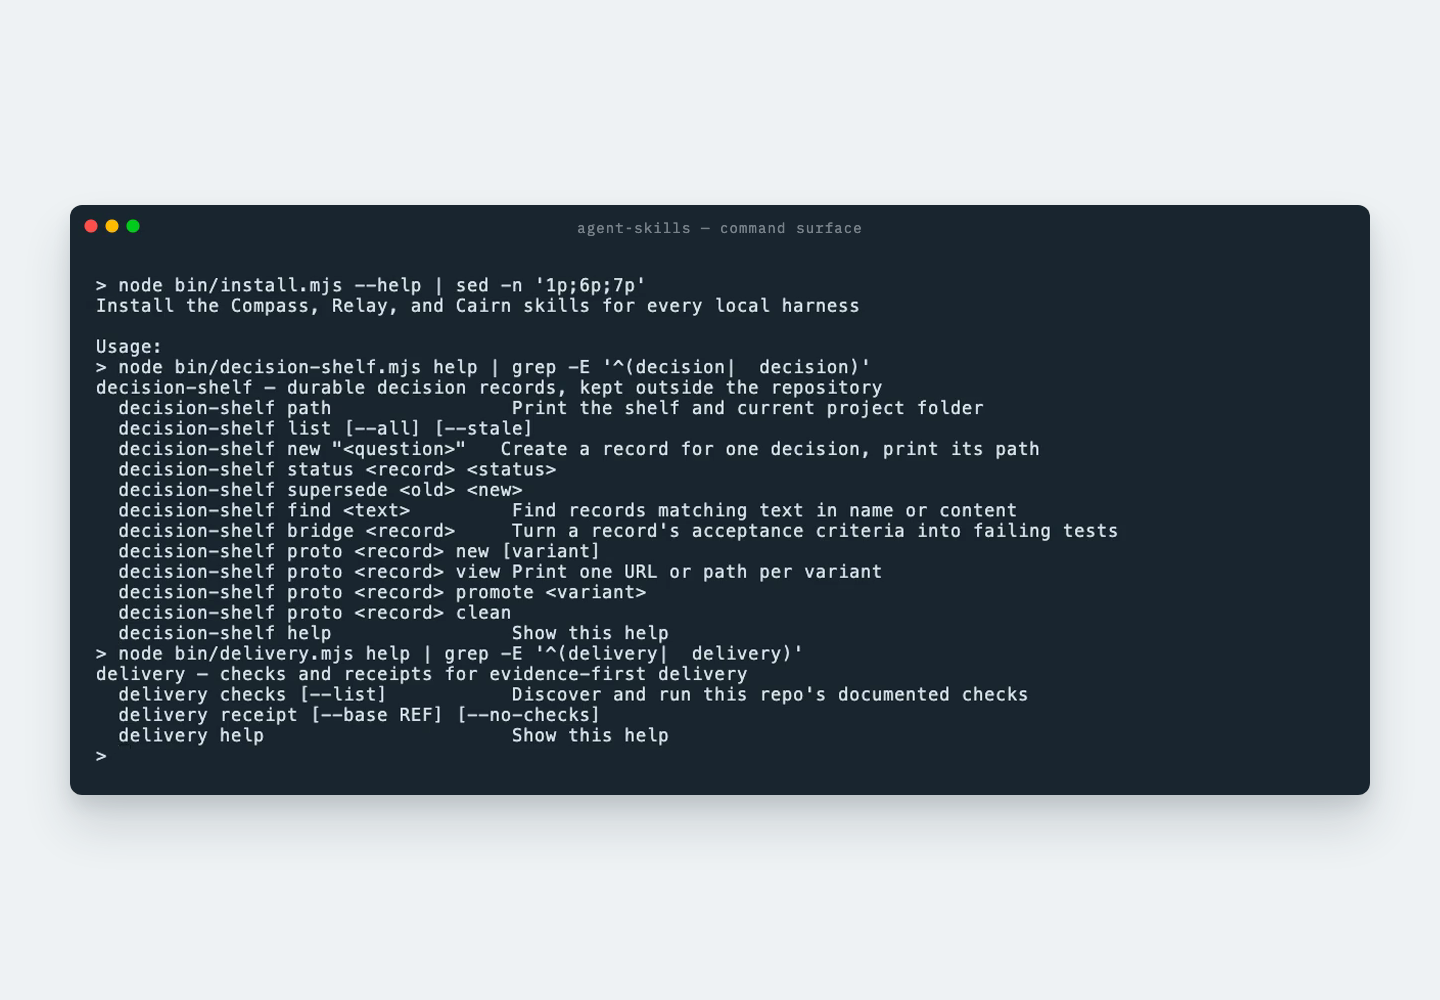
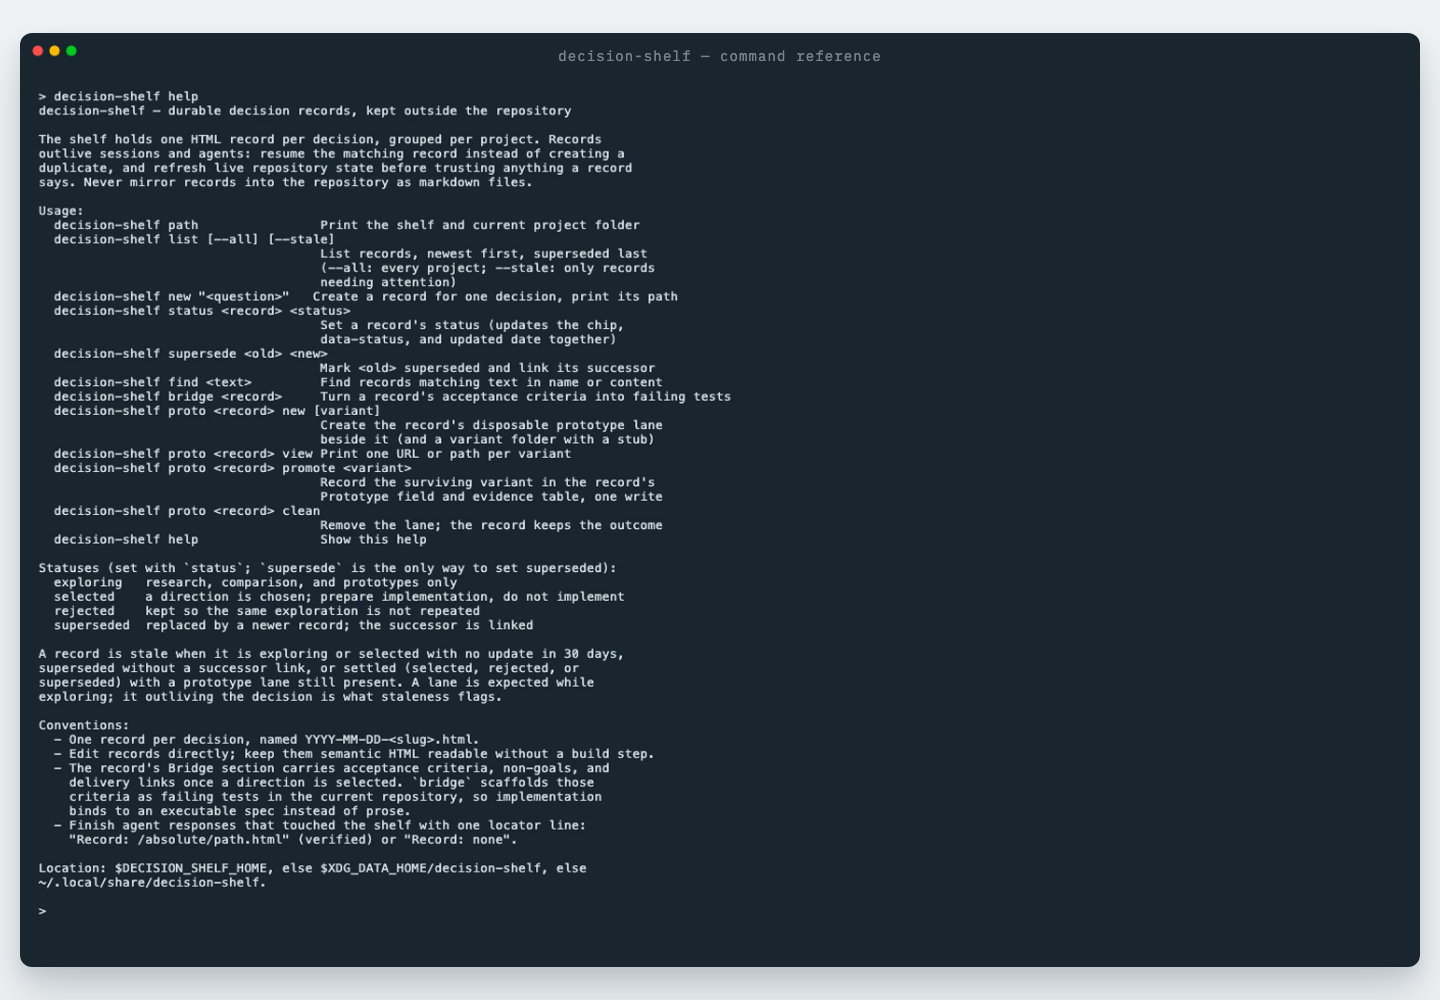
[style]: standardize project image popouts

diff --git a/src/data/catalog.ts b/src/data/catalog.ts
@@ -108,7 +108,7 @@ export const CATALOG: Project[] = CatalogProjectSchema.array().parse([
       { kind: 'image', src: `${SHOTS}/agent-skills/skill-compass.png`, caption: 'compass: turns an open direction into a decision' },
       { kind: 'image', src: `${SHOTS}/agent-skills/skill-relay.png`, caption: 'relay: bounded delivery with one reviewable receipt' },
       { kind: 'image', src: `${SHOTS}/agent-skills/skill-cairn.png`, caption: 'cairn: durable context without repo clutter' },
-      { kind: 'image', src: `${SHOTS}/agent-skills/cli-commands.png`, caption: 'the command surface: install, decisions, checks, and receipts' },
+      { kind: 'image', src: `${SHOTS}/agent-skills/cli-commands.png`, caption: 'decision-shelf help: the full command reference' },
       { kind: 'image', src: `${SHOTS}/agent-skills/storage-locations.png`, caption: 'where decisions and receipts live' },
     ],
   },

diff --git a/src/components/frost/frost.css b/src/components/frost/frost.css
@@ -942,9 +942,8 @@ a.frost-sr-only:focus {
 }
 
 .frost-image-lightbox {
-  width: fit-content;
-  max-width: calc(100vw - 32px);
-  max-height: calc(100vh - 80px);
+  width: min(1120px, calc(100vw - 32px), calc(144vh - 115.2px));
+  aspect-ratio: 36 / 25;
   margin: auto;
   padding: 0;
   border: 0;
@@ -1003,10 +1002,10 @@ a.frost-sr-only:focus {
 
 .frost-image-lightbox-image {
   display: block;
-  width: auto;
-  max-width: min(1120px, calc(100vw - 32px));
-  max-height: calc(100vh - 80px);
+  width: 100%;
+  height: 100%;
   margin: 0 auto;
+  object-fit: contain;
 }
 
 .frost-gallery figcaption {
